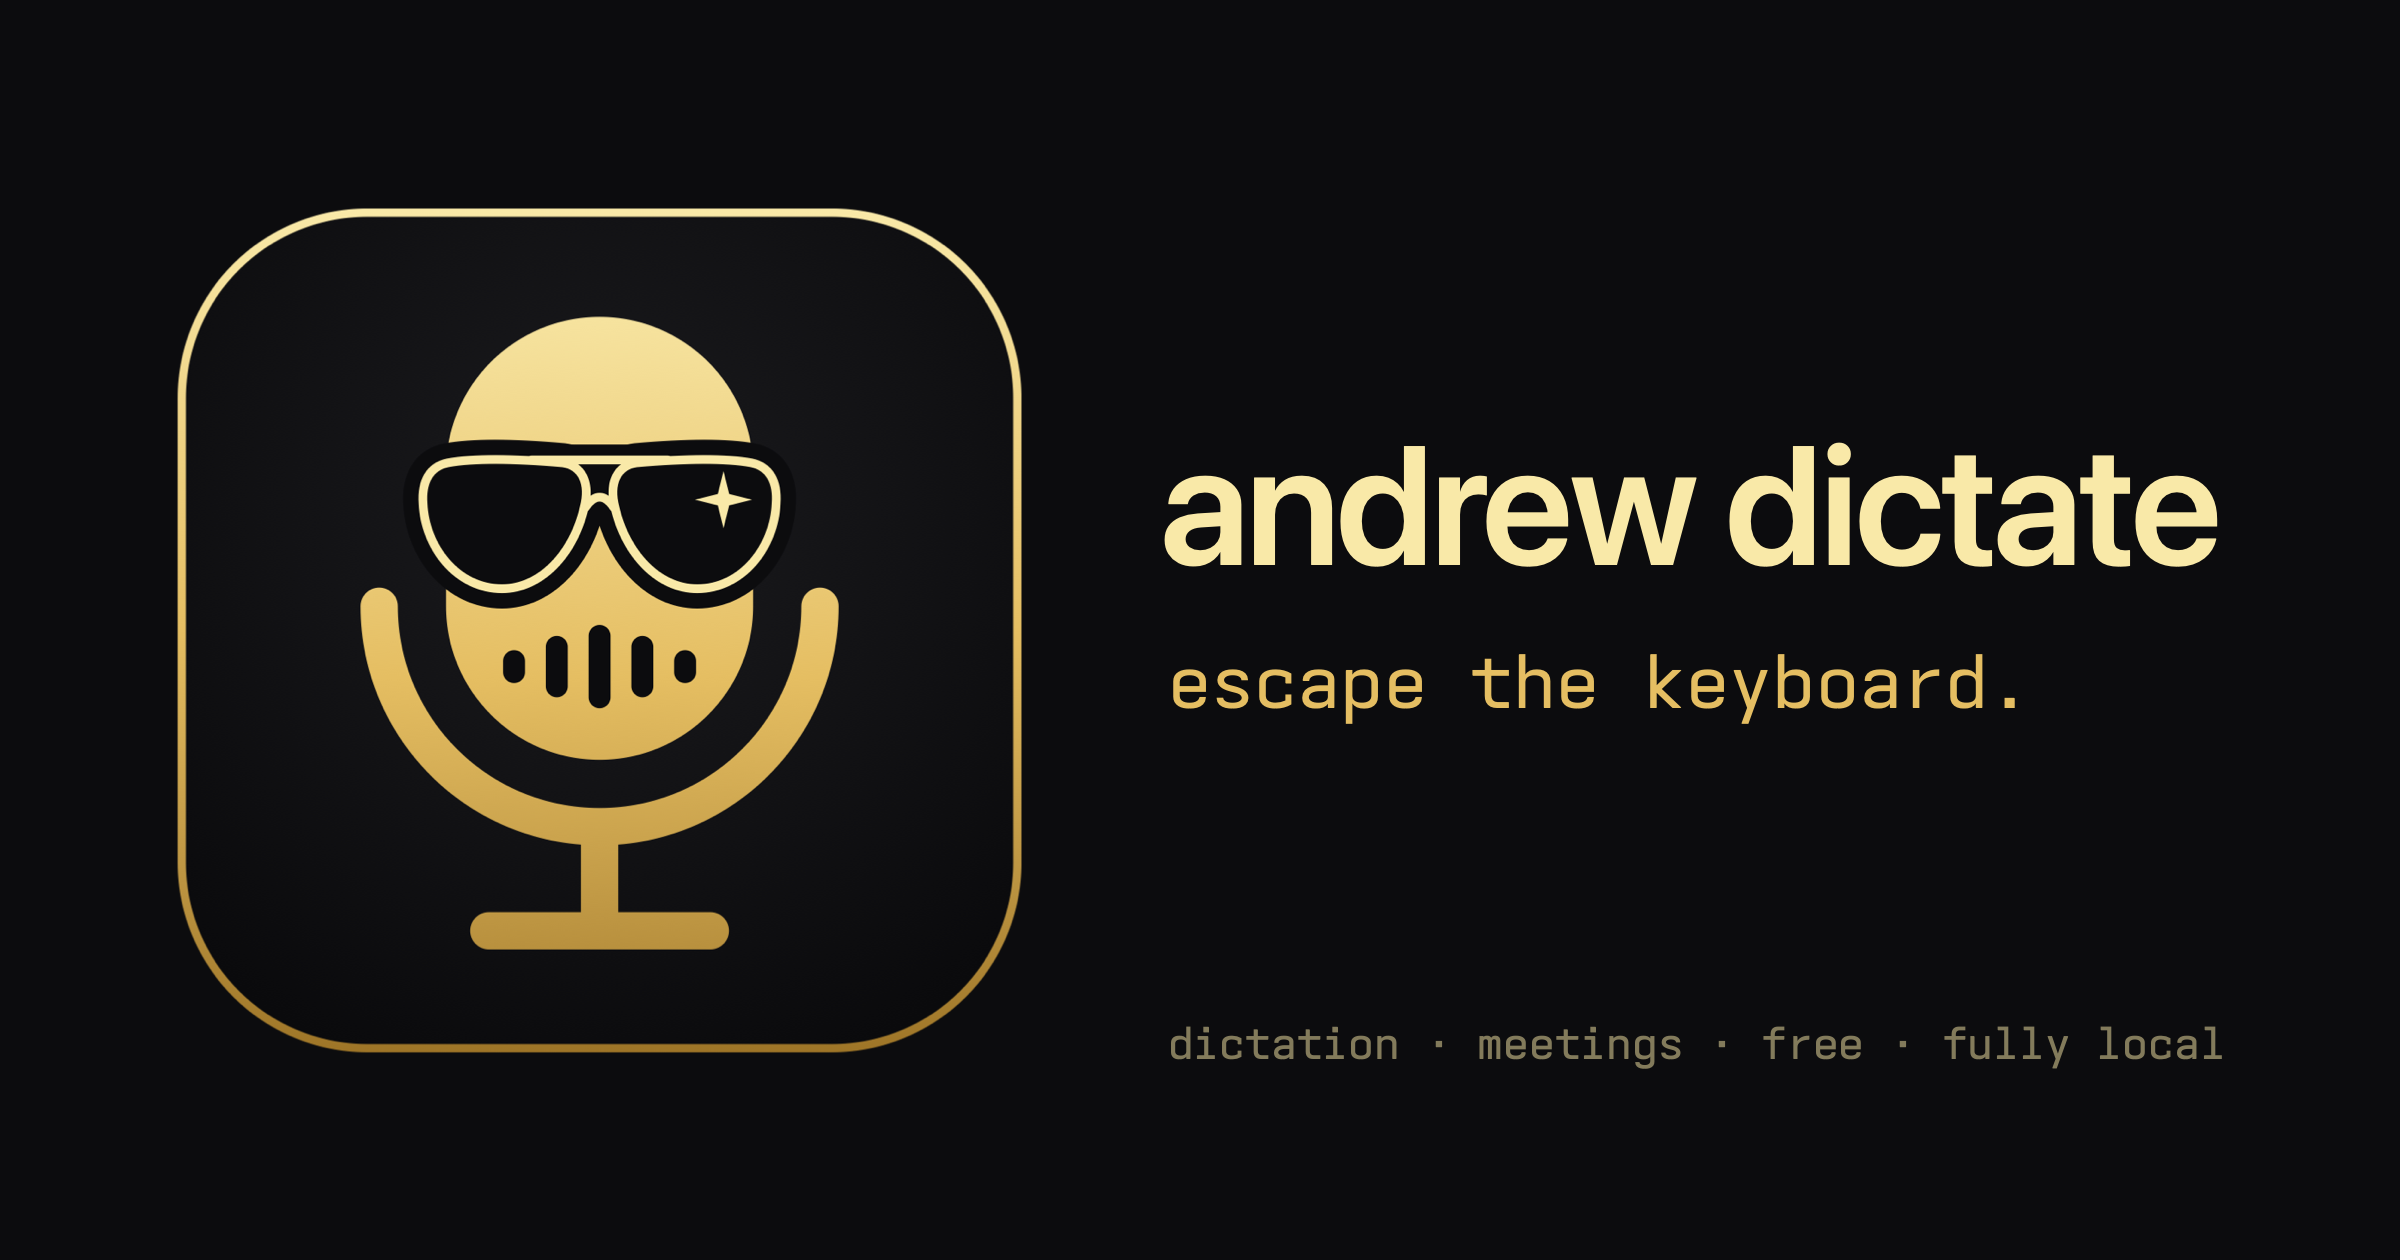
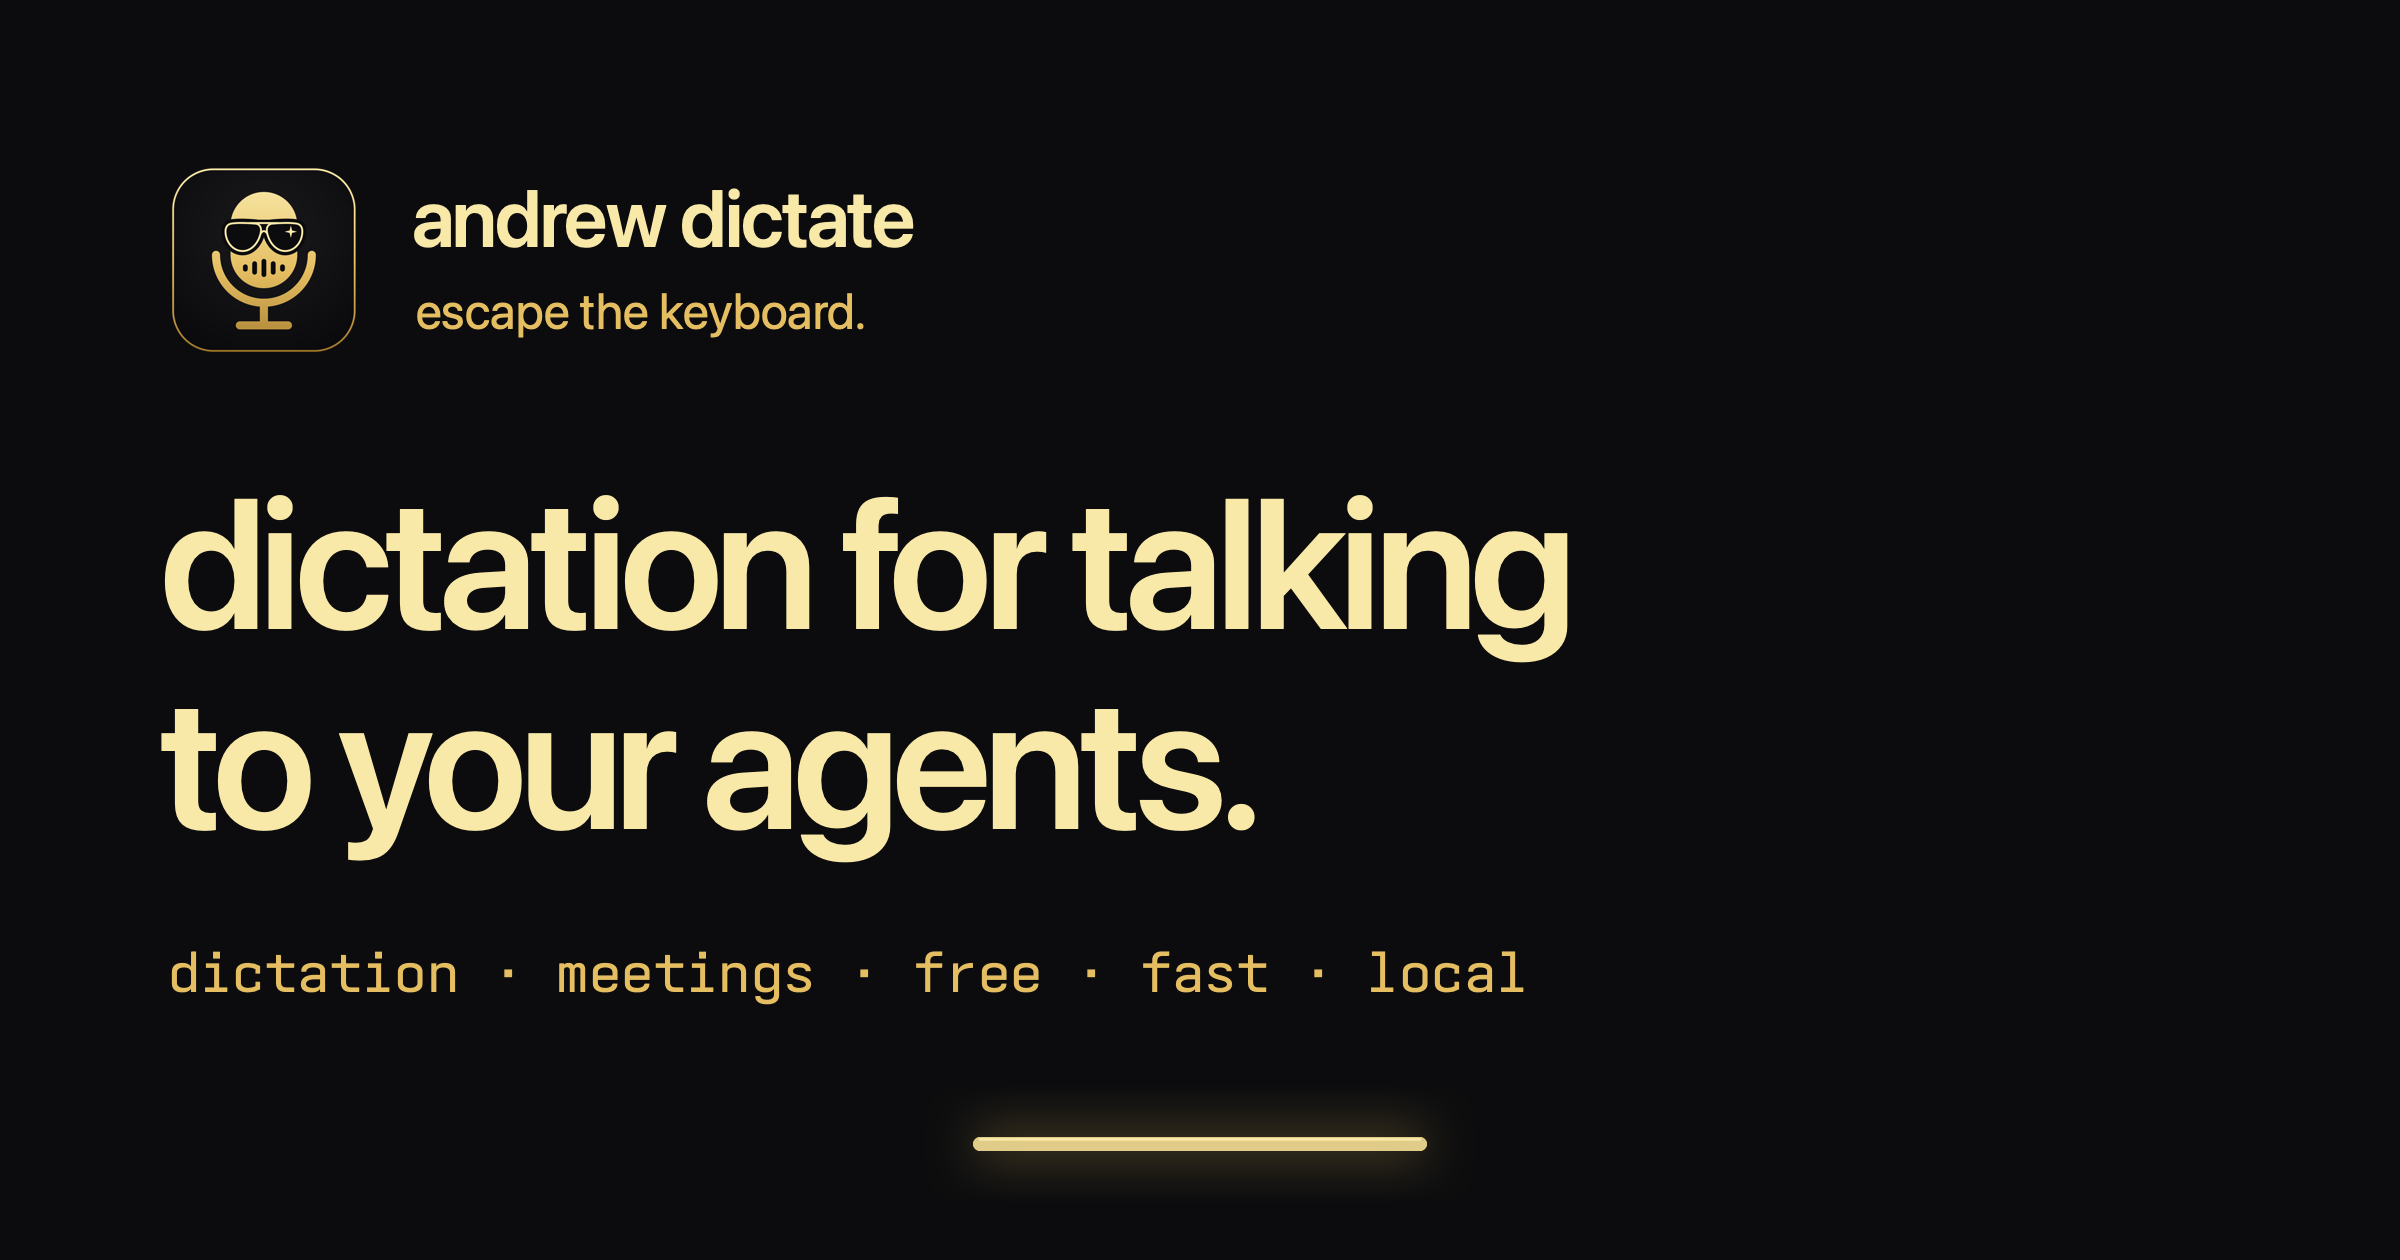
art: the og image is the one lockup: the badge, the pitch, the lit lamp

diff --git a/apps/mac/art/og-compose.swift b/apps/mac/art/og-compose.swift
@@ -1,10 +1,13 @@
 import AppKit
 
-// og image compositor: dark bg + the badge (from badge_1024.png) + type.
+// og image compositor: the one lockup. dark bg, the badge (from
+// badge_1024.png) beside the name, the pitch in large type, the facts line
+// under it, and the lamp lit at the bottom centre, where the app puts it.
+// the readme's banner is this same picture.
 // rendered at 2x (2400x1260) because that is what the site ships, into an
 // explicit bitmap so a retina display cannot double it again.
-// the type roles match the app (ADR 0037): paper for the name, machine
-// (Ioskeley Mono) for the tagline and the facts line.
+// the type roles match the app (ADR 0037): paper for the name and the pitch,
+// machine (Ioskeley Mono) for the facts line.
 let art = FileManager.default.currentDirectoryPath
 // the badge alone, never icon_1024.png: that one carries apple's icon-grid
 // padding (process-icon.swift), and a poster is not an icon slot.
@@ -34,32 +37,68 @@ ctx.imageInterpolation = .high
 NSColor(srgbRed: 0x0C/255, green: 0x0C/255, blue: 0x0E/255, alpha: 1).setFill()
 NSRect(x: 0, y: 0, width: W, height: H).fill()
 
-badge.draw(in: NSRect(x: 80 * S, y: 95 * S, width: 440 * S, height: 440 * S))
-
 let goldPale = NSColor(srgbRed: 0xF9/255, green: 0xE9/255, blue: 0xA8/255, alpha: 1)
 let gold = NSColor(srgbRed: 0xE5/255, green: 0xBE/255, blue: 0x62/255, alpha: 1)
+let goldDeep = NSColor(srgbRed: 0x9E/255, green: 0x75/255, blue: 0x27/255, alpha: 1)
 
-let name = NSAttributedString(string: "andrew dictate", attributes: [
-    .font: NSFont.systemFont(ofSize: 84 * S, weight: .semibold),
-    .foregroundColor: goldPale, .kern: -1.5 * S])
-name.draw(at: NSPoint(x: 580 * S, y: 330 * S))
+let left = 84 * S
 
-let tag = NSAttributedString(string: "escape the keyboard.", attributes: [
-    .font: mono(36 * S),
-    .foregroundColor: gold])
-tag.draw(at: NSPoint(x: 584 * S, y: 268 * S))
+// the badge and the name, as the site's first lines have them
+badge.draw(in: NSRect(x: left, y: 452 * S, width: 96 * S, height: 96 * S))
 
-// the facts line ends at the same margin the badge starts on. shrink until it fits.
-let subX = 584 * S, rightMargin = 80 * S
-var subSize = 25 * S
-var sub: NSAttributedString
-repeat {
-    sub = NSAttributedString(string: "dictation · meetings · free · fully local", attributes: [
-        .font: mono(subSize),
-        .foregroundColor: goldPale.withAlphaComponent(0.5)])
-    subSize -= 1
-} while sub.size().width > CGFloat(W) - subX - rightMargin
-sub.draw(at: NSPoint(x: subX, y: 96 * S))
+NSAttributedString(string: "andrew dictate", attributes: [
+    .font: NSFont.systemFont(ofSize: 40 * S, weight: .semibold),
+    .foregroundColor: goldPale, .kern: -0.8 * S,
+]).draw(at: NSPoint(x: left + 122 * S, y: 498 * S))
+
+NSAttributedString(string: "escape the keyboard.", attributes: [
+    .font: NSFont.systemFont(ofSize: 25 * S, weight: .regular),
+    .foregroundColor: gold,
+]).draw(at: NSPoint(x: left + 124 * S, y: 460 * S))
+
+// the pitch, in two lines
+let pitch: [NSAttributedString.Key: Any] = [
+    .font: NSFont.systemFont(ofSize: 92 * S, weight: .semibold),
+    .foregroundColor: goldPale, .kern: -3.4 * S,
+]
+NSAttributedString(string: "dictation for talking", attributes: pitch)
+    .draw(at: NSPoint(x: left - 4 * S, y: 296 * S))
+NSAttributedString(string: "to your agents.", attributes: pitch)
+    .draw(at: NSPoint(x: left - 4 * S, y: 196 * S))
+
+NSAttributedString(string: "dictation · meetings · free · fast · local", attributes: [
+    .font: mono(27 * S),
+    .foregroundColor: gold,
+]).draw(at: NSPoint(x: left, y: 128 * S))
+
+// the lamp, lit: the tube the hud draws, with the light it spills
+let lampY = 58 * S, lampHalf = 110 * S, lampThickness = 7 * S
+let tube = NSBezierPath()
+tube.move(to: NSPoint(x: CGFloat(W) / 2 - lampHalf, y: lampY))
+tube.line(to: NSPoint(x: CGFloat(W) / 2 + lampHalf, y: lampY))
+tube.lineCapStyle = .round
+
+NSGraphicsContext.saveGraphicsState()
+let halo = NSShadow()
+halo.shadowColor = gold.withAlphaComponent(0.75)
+halo.shadowBlurRadius = 26 * S
+halo.set()
+gold.withAlphaComponent(0.9).setStroke()
+tube.lineWidth = lampThickness
+tube.stroke()
+NSGraphicsContext.restoreGraphicsState()
+
+goldDeep.blended(withFraction: 0.72, of: goldPale)!.setStroke()
+tube.lineWidth = lampThickness
+tube.stroke()
+
+let rim = NSBezierPath()
+rim.move(to: NSPoint(x: CGFloat(W) / 2 - lampHalf, y: lampY + lampThickness / 2 - 1.2 * S))
+rim.line(to: NSPoint(x: CGFloat(W) / 2 + lampHalf, y: lampY + lampThickness / 2 - 1.2 * S))
+rim.lineCapStyle = .round
+rim.lineWidth = 1.3 * S
+goldPale.setStroke()
+rim.stroke()
 
 ctx.flushGraphics()
 NSGraphicsContext.restoreGraphicsState()
